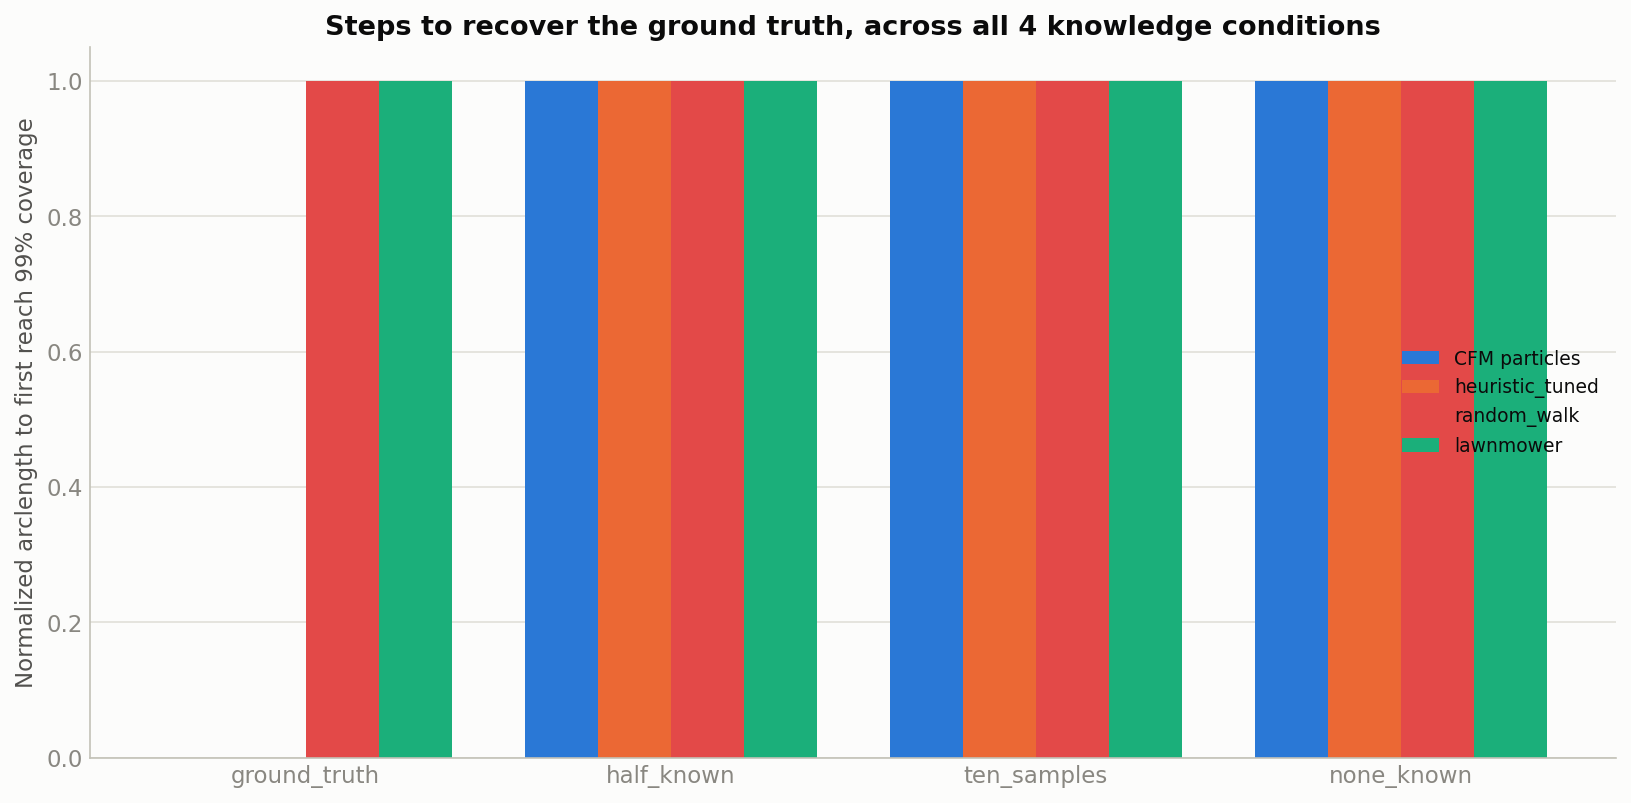
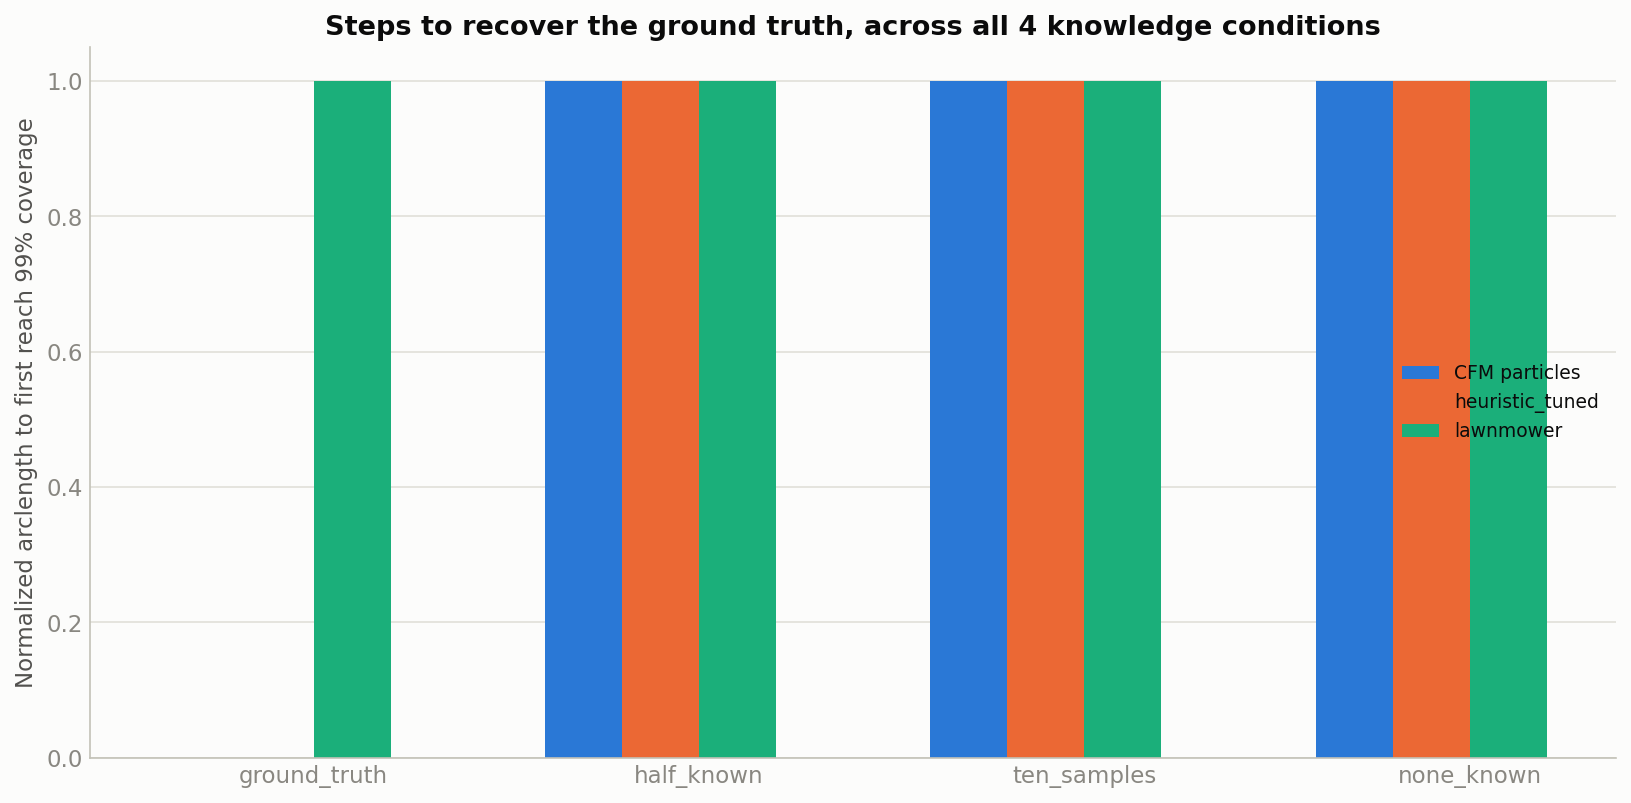
random_walk aus dem Kern-Methodenvergleich entfernt (Abschnitt 7 ff.)
random_walk(svgd500) ist laut eigener Caveat in Abschnitt 2 nicht fair mit
den wissensstufen-beschraenkten Methoden vergleichbar (verfeinert direkt
gegen die exakte Wahrheit mit 20x mehr SVGD-Iterationen). Bisher stand die
Caveat als Textmarker *see caveat above* in den Balkenbeschriftungen,
jetzt ist der Eintrag ganz aus method_rows/method_subsets entfernt -- die
dedizierte random_walk-Analyse in Abschnitt 2 bleibt unveraendert.

diff --git a/thesis_architecture/evaluation_full_matrix/results/analysis_paired_partial_20260918/analyze.py b/thesis_architecture/evaluation_full_matrix/results/analysis_paired_partial_20260918/analyze.py
@@ -344,9 +344,11 @@ for method in ['heuristic_tuned', 'linear_waypoints_tuned']:
     _lbl = '%s (best: %s@%d)' % (method, best_fam, best_iters)
     _sub = m[(m['family'] == best_fam) & (m['svgd_iters'] == best_iters)]
     method_rows.append((_lbl, grp.loc[(best_fam, best_iters)])); method_subsets[_lbl] = _sub
-_lbl = 'random_walk (svgd500) *see caveat above*'
-_sub = rw[rw['subvariant'] == 'svgd500']
-method_rows.append((_lbl, _sub['E_ergodic_total'].mean())); method_subsets[_lbl] = _sub
+# random_walk (svgd500) deliberately left out of this core comparison -- per
+# the caveat in section 2, it refines against the exact ground truth with
+# 20x the SVGD budget of every other entry here, so it isn't a fair point of
+# comparison against the knowledge-limited CFM/heuristic numbers. It still
+# gets its own dedicated analysis in section 2.
 _lbl = 'lawnmower'
 _sub = df[df['method'] == 'lawnmower']
 method_rows.append((_lbl, _sub['E_ergodic_total'].mean())); method_subsets[_lbl] = _sub
@@ -384,7 +386,8 @@ def _short_method_label(label):
 
 fig, ax = plt.subplots(figsize=(10, 5.5))
 bar_colors = [_method_color(m) for m in method_df['method']]
-bars = ax.barh(method_df['method'], method_df['E_ergodic_total'], color=bar_colors, zorder=2)
+short_labels7 = [_short_method_label(m) for m in method_df['method']]
+bars = ax.barh(short_labels7, method_df['E_ergodic_total'], color=bar_colors, zorder=2)
 for b in bars:
     w_ = b.get_width()
     ax.annotate(f'{w_:.2f}', (w_, b.get_y() + b.get_height() / 2), ha='left', va='center',
@@ -560,8 +563,7 @@ plt.close(fig)
 log("## 12. Steps (normalized arclength) to first reach 99% coverage, all 4 conditions")
 cond_order_12 = ['ground_truth', 'half_known', 'ten_samples', 'none_known']
 steps_methods = ['CFM (particles, no_replan, best: %s)' % best_cfm_particles,
-                 'heuristic_tuned (best: mass@1000)', 'random_walk (svgd500) *see caveat above*',
-                 'lawnmower']
+                 'heuristic_tuned (best: mass@1000)', 'lawnmower']
 steps_rows = []
 for label in steps_methods:
     sub = method_subsets[label]

diff --git a/thesis_architecture/evaluation_full_matrix/results/analysis_paired_partial_20260918/SUMMARY.md b/thesis_architecture/evaluation_full_matrix/results/analysis_paired_partial_20260918/SUMMARY.md
@@ -69,7 +69,6 @@ none_known                 25.351238  0.059083
 ## 7. Methodenvergleich (Kernergebnis)
 Fairness-Hinweis: heuristic_tuned/linear_waypoints_tuned sind deterministisch/Einmal-Planung (kein Replan-Konzept) -- CFM wird hier deshalb auf `no_replan` beschraenkt, fuer einen Einmal-Planung-gegen-Einmal-Planung-Vergleich. CFMs replan_1_6-Option ist separat in Abschnitt 5 zu sehen (deutlich schlechter: 23.5 vs. 15.0) -- in dieser Tabelle NICHT mitgemittelt, sonst wuerde CFM unfair schlechter aussehen.
                                              method  E_ergodic_total
-           random_walk (svgd500) *see caveat above*         0.472540
             linear_waypoints_tuned (best: mass@500)        10.001251
  CFM (spectral, no_replan, best: mass_tuned_svgd25)        10.550103
 CFM (particles, no_replan, best: mass_tuned_svgd25)        10.868026
@@ -140,7 +139,6 @@ coverage_mean/_std are themselves averages over the 8 shapes within each (knowle
 ## 11. Path length and smoothness/energy per method
                                                      path_len  smoothness_energy
 method                                                                          
-random_walk (svgd500) *see caveat above*             4.408305           0.367250
 linear_waypoints_tuned (best: mass@500)              5.410750           0.589565
 CFM (spectral, no_replan, best: mass_tuned_svgd25)   3.844642           0.166365
 CFM (particles, no_replan, best: mass_tuned_svgd25)  5.213950           0.248646
@@ -158,10 +156,6 @@ CFM (particles, no_replan, best: mass_tuned_svgd25)          none_known         
                   heuristic_tuned (best: mass@1000)          half_known                     1.0      0.0  8
                   heuristic_tuned (best: mass@1000)         ten_samples                     1.0      0.0  8
                   heuristic_tuned (best: mass@1000)          none_known                     1.0      0.0  8
-           random_walk (svgd500) *see caveat above*        ground_truth                     1.0      0.0  8
-           random_walk (svgd500) *see caveat above*          half_known                     1.0      0.0  8
-           random_walk (svgd500) *see caveat above*         ten_samples                     1.0      0.0  8
-           random_walk (svgd500) *see caveat above*          none_known                     1.0      0.0  8
                                           lawnmower        ground_truth                     1.0      0.0  8
                                           lawnmower          half_known                     1.0      0.0  8
                                           lawnmower         ten_samples                     1.0      0.0  8
@@ -172,7 +166,6 @@ This metric is essentially BINARY at the 99% threshold in this data: ~0 only for
 ## 14. Explore vs. exploit balance per method
                                                      E_ergodic_explore  E_ergodic_exploit
 method                                                                                   
-random_walk (svgd500) *see caveat above*                      0.333149           0.139391
 linear_waypoints_tuned (best: mass@500)                       9.853261           0.147990
 CFM (spectral, no_replan, best: mass_tuned_svgd25)           10.383818           0.166285
 CFM (particles, no_replan, best: mass_tuned_svgd25)          10.754409           0.113617
@@ -197,10 +190,6 @@ CFM (particles, no_replan, best: mass_tuned_svgd25)          none_known        2
             linear_waypoints_tuned (best: mass@500)          half_known        12.813870
             linear_waypoints_tuned (best: mass@500)         ten_samples        10.743119
             linear_waypoints_tuned (best: mass@500)          none_known        16.222247
-           random_walk (svgd500) *see caveat above*        ground_truth         0.472540
-           random_walk (svgd500) *see caveat above*          half_known         0.472540
-           random_walk (svgd500) *see caveat above*         ten_samples         0.472540
-           random_walk (svgd500) *see caveat above*          none_known         0.472540
                                           lawnmower        ground_truth        18.780876
                                           lawnmower          half_known        18.780876
                                           lawnmower         ten_samples        18.780876
